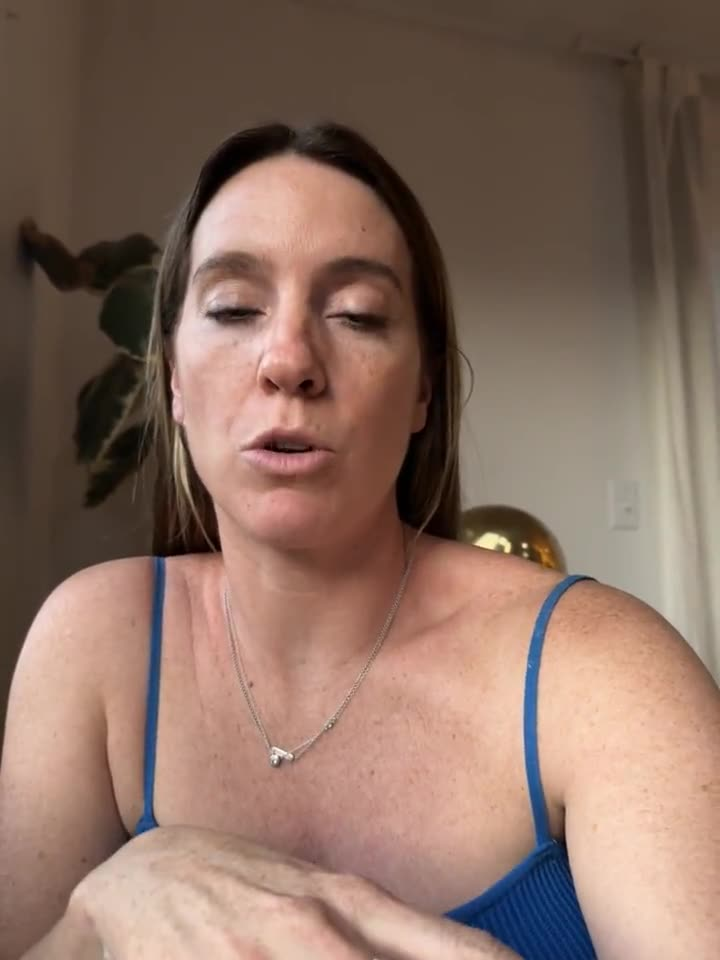
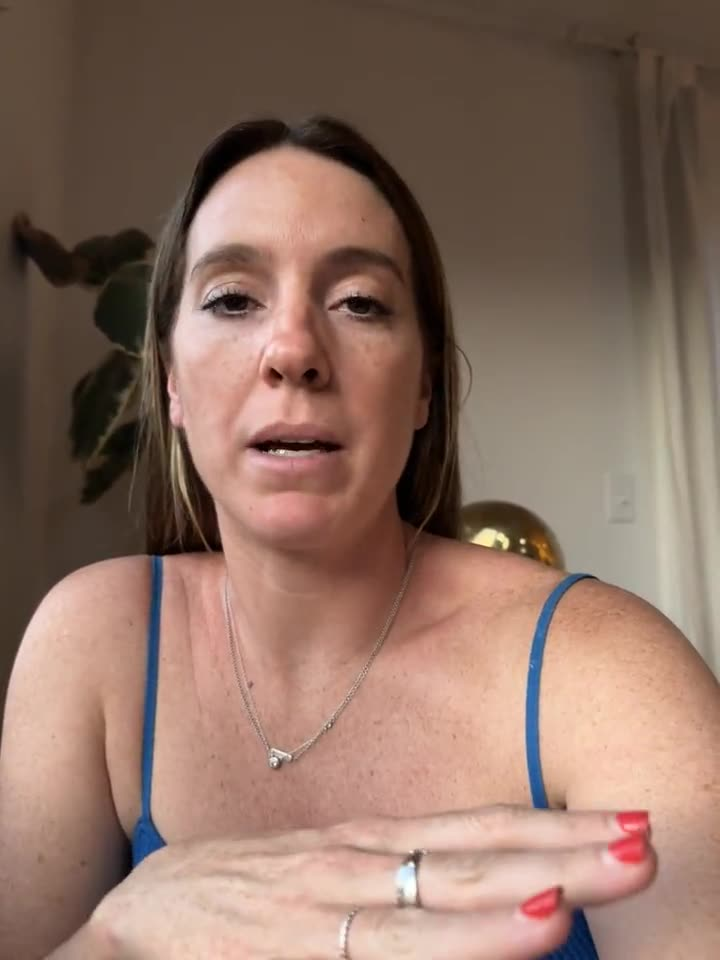
waitlist-2 step 2: no X, no subheadline, video sized so the phone field and Text Me fit on screen; better cover frame
Claude-Session: https://claude.ai/code/session_017axZFnvZpp7RAuMo6ZaNzz

diff --git a/waitlist-2.html b/waitlist-2.html
@@ -136,6 +136,13 @@ body.editing .s2-screen[hidden] { display: block !important; position: static; a
   .join-card .pill-btn { min-height: 50px; padding: 12px 18px; }
 }
 .join-card .field input, .s2-screen .field input { font-size: 18px; }
+/* Step 2: headline, video and phone field all fit on one phone screen */
+.s2-inner { padding-top: max(14px, calc(env(safe-area-inset-top, 0px) + 10px)); gap: 12px; }
+.s2-screen .step2 { gap: 12px; }
+.s2-screen .step2-title { margin: 0; }
+.s2-screen .katie-video { width: auto; max-width: 100%; height: min(472px, calc(100vh - 300px)); height: min(472px, calc(100svh - 300px)); aspect-ratio: 3 / 4; margin: 0 auto; }
+.s2-screen .card-form { padding: 14px; gap: 10px; }
+@media (max-width: 560px) { .s2-screen .step2-title { font-size: 40px; } }
 @media (max-width: 359px) { #join .row { grid-template-columns: 1fr; } h1.hero-title { font-size: 35px; } .wrap { padding: 0 14px; } }
 </style>
 <link rel="icon" href="/favicon.ico" sizes="48x48">
@@ -190,12 +197,10 @@ body.editing .s2-screen[hidden] { display: block !important; position: static; a
 
 <div class="s2-screen" id="s2-screen" hidden role="dialog" aria-modal="true" aria-label="A video from Katie">
   <div class="s2-inner">
-    <button type="button" class="s2-close" aria-label="Close">&times;</button>
     <div class="step2" id="step2" hidden>
       <h2 class="step2-title">Hey!</h2>
-      <p class="step2-lede">A quick video from me :)</p>
       <div class="katie-video">
-        <video playsinline preload="metadata" poster="/app/katie-video.jpg?v=2"><source src="/app/katie-video.mp4?v=2" type="video/mp4">Your browser can't play this video.</video><button type="button" class="play-btn" aria-label="Play video"><svg viewBox="0 0 24 24" aria-hidden="true"><path d="M8 5.5v13a1 1 0 0 0 1.5.86l10.6-6.5a1 1 0 0 0 0-1.72L9.5 4.64A1 1 0 0 0 8 5.5z"/></svg></button>
+        <video playsinline preload="metadata" poster="/app/katie-video.jpg?v=3"><source src="/app/katie-video.mp4?v=2" type="video/mp4">Your browser can't play this video.</video><button type="button" class="play-btn" aria-label="Play video"><svg viewBox="0 0 24 24" aria-hidden="true"><path d="M8 5.5v13a1 1 0 0 0 1.5.86l10.6-6.5a1 1 0 0 0 0-1.72L9.5 4.64A1 1 0 0 0 8 5.5z"/></svg></button>
       </div>
       <form class="card-form" id="phone-form" novalidate>
         <label class="field"><span class="lbl">Your phone number</span><input type="tel" name="phone" autocomplete="tel" inputmode="tel" enterkeyhint="done" placeholder="(508) 555-0123"></label>
@@ -219,6 +224,6 @@ body.editing .s2-screen[hidden] { display: block !important; position: static; a
 </footer>
 
 <script src="/app/remember.js"></script>
-<script src="/app/waitlist-steps.js?v=3"></script>
+<script src="/app/waitlist-steps.js?v=4"></script>
 </body>
 </html>

diff --git a/app/waitlist-steps.js b/app/waitlist-steps.js
@@ -123,12 +123,6 @@
     if (notYou) notYou.addEventListener('click', function () { watch.remove(); setStep(1); });
   }
   if (document.readyState === 'loading') document.addEventListener('DOMContentLoaded', checkKnown); else checkKnown();
-  screen.querySelector('.s2-close').addEventListener('click', function () {
-    var v = s2.querySelector('video'); if (v) v.pause();
-    screen.hidden = true;
-    document.documentElement.classList.remove('s2-open');
-  });
-  document.addEventListener('keydown', function (e) { if (e.key === 'Escape' && !screen.hidden && !document.body.classList.contains('editing')) screen.querySelector('.s2-close').click(); });
 
   // Gray play button over the video; native controls appear once it's playing.
   (function () {
